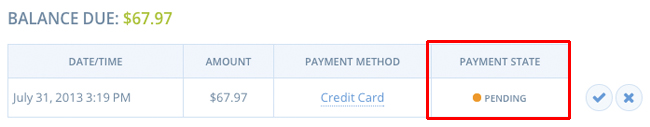
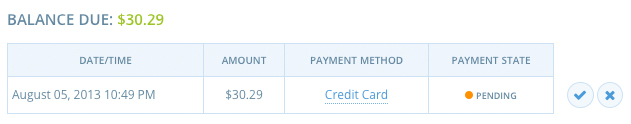
New screenshots & fixed link on payment_states

diff --git a/content/user/payments/payment_states.md b/content/user/payments/payment_states.md
@@ -33,7 +33,7 @@ The details for the payment will appear. The "Payment State" column will display
 
 Authorizing a payment is the process of confirming the availability of funds for a transaction with the purchaser's credit card company. Capturing a payment is the process of telling the credit card company that you would like to get paid for the transaction amount. Typically, this two step process of first authorizing the payment and then capturing the payment is used by online retailers to delay charging the customer until the product(s) purchased are fulfilled (shipped).
 
-By default, Spree automatically handles authorizing the payment for a transaction. For capturing payments, we give you the choice of auto-capturing the payment or manually capturing the payment via the Admin Interface. Documentation about auto-capturing payments is available [here](developer/payments.html#auto-capturing).
+By default, Spree automatically handles authorizing the payment for a transaction. For capturing payments, we give you the choice of auto-capturing the payment or manually capturing the payment via the Admin Interface. If you like, you can read further [documentation about auto-capturing payments](/developer/payments#auto-capturing).
 
 Note: Not all payment gateways allow for the two step *authorize and then capture* payment process. If this functionality is required for your store, please confirm with your payment gateway that they can support this process.
 
